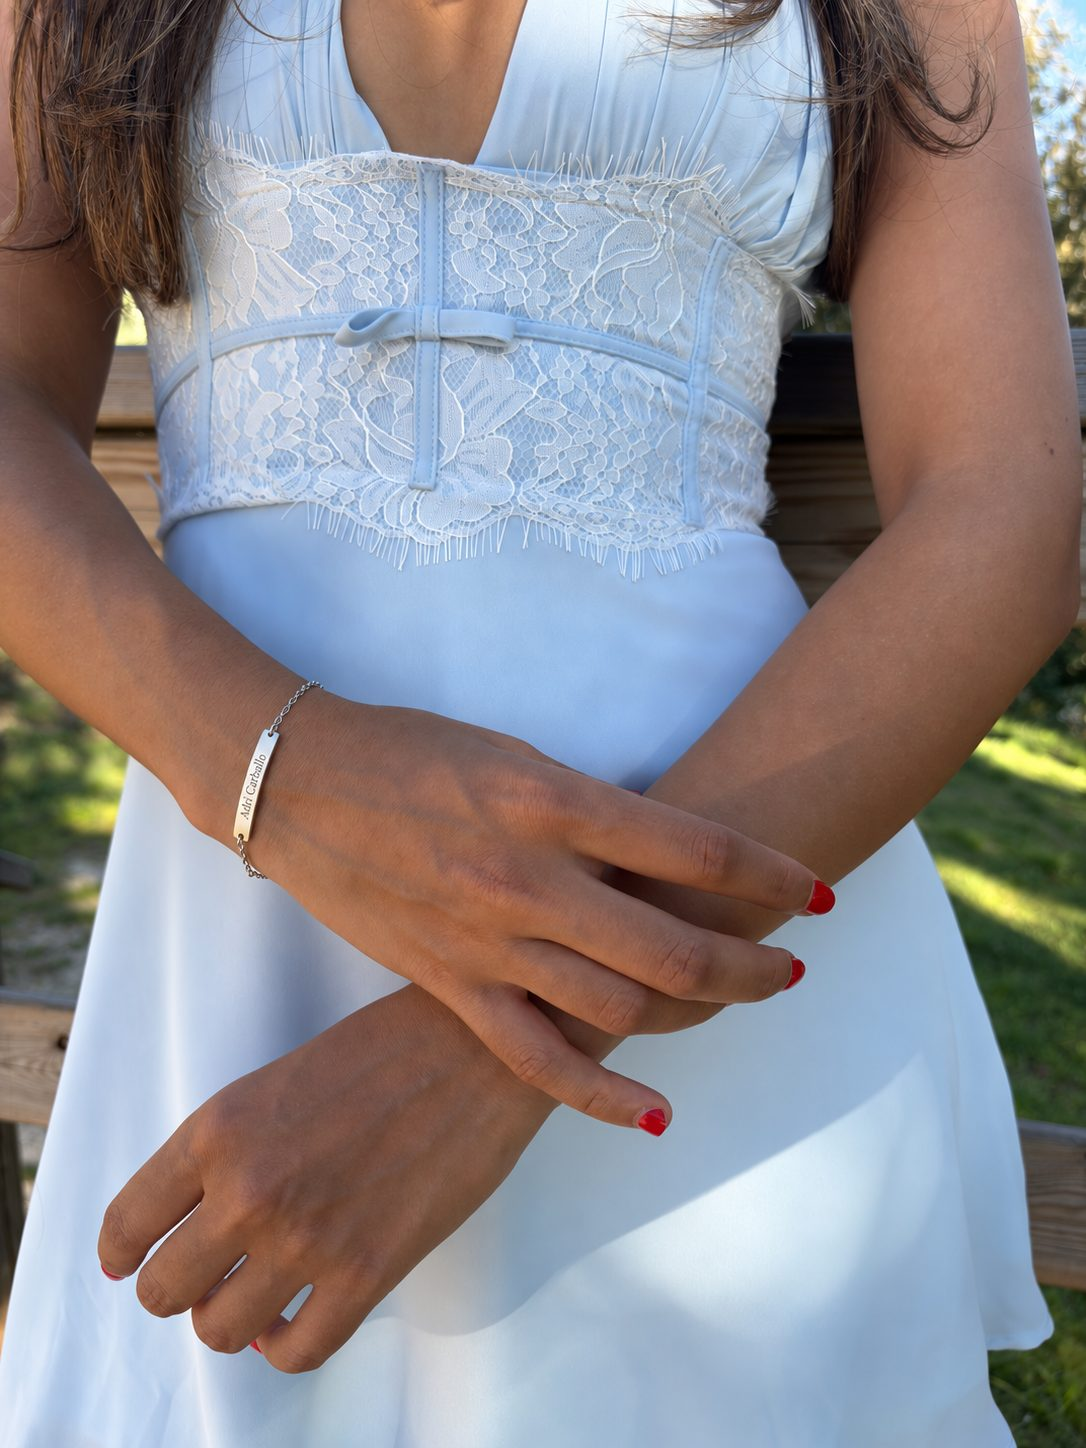
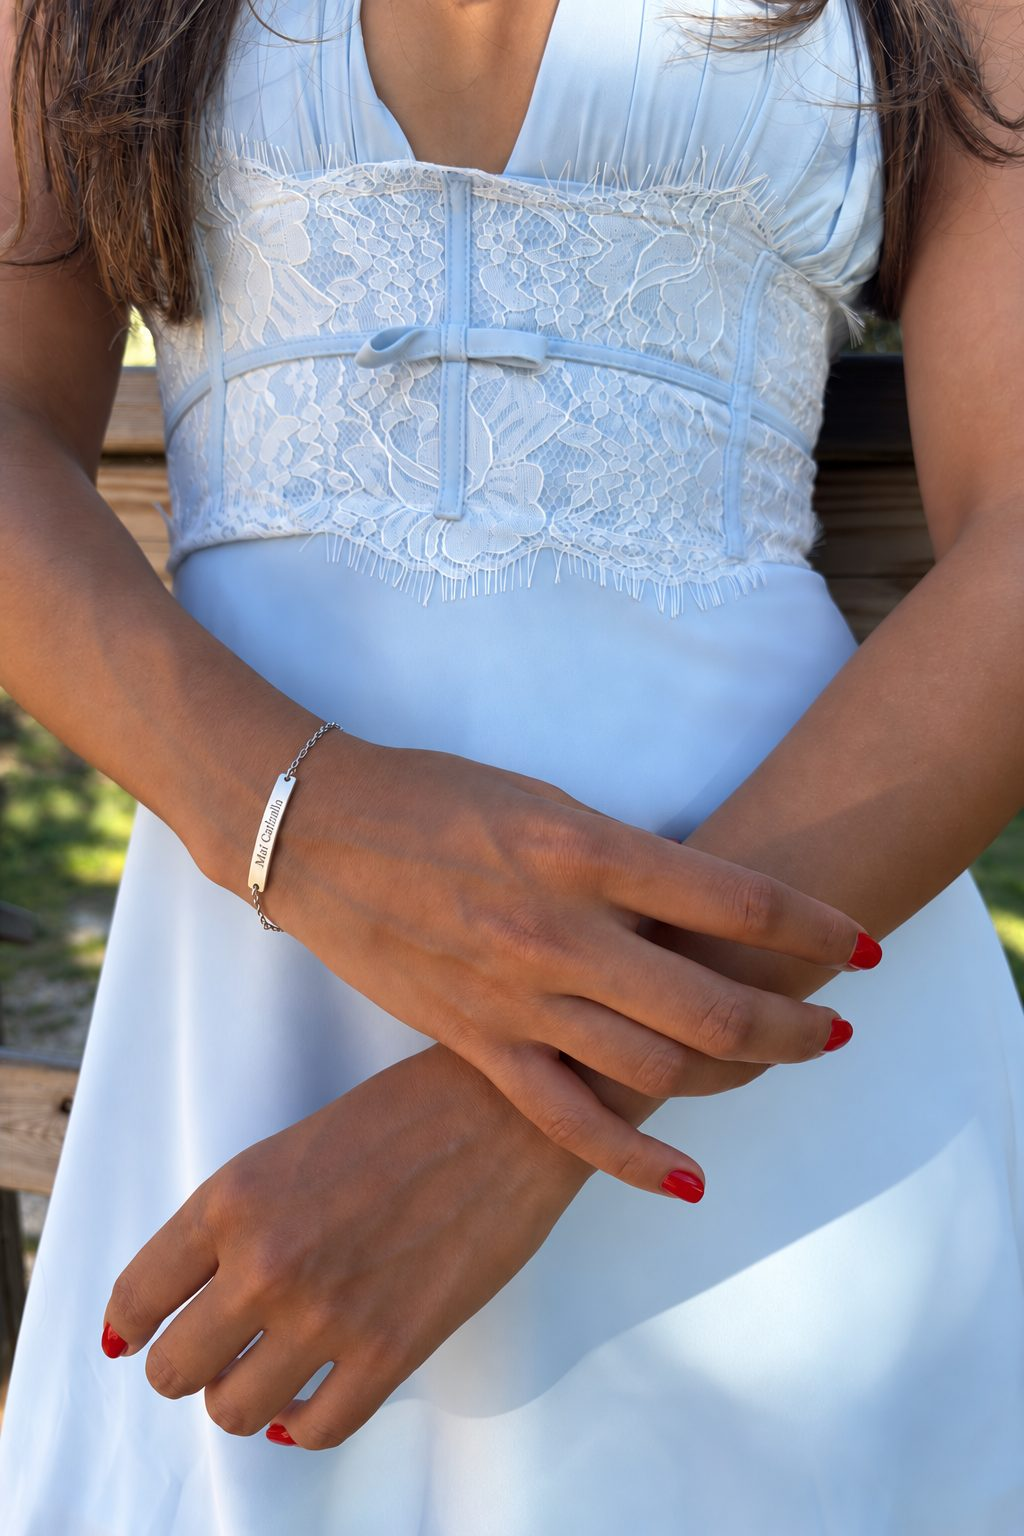
Fotos reales para Pulsera Dos Almas y Brazalete Eterno
Mismo esquema que Pulsera Mi Cielo: portada deslizable oro/plata
(foto 4 de cada una, que tambien cierra la galeria de dentro) y 1-2-3
dentro de la ficha, en orden. Ajustes de encuadre puntuales donde el
recorte centrado dejaba la pieza fuera (brazalete-oro-3, mi-cielo-oro-1
ya corregida antes). Pulsera Dos Almas se queda con 3 fotos en plata
(1a, 3a, 4a): la 2a de esa carpeta no es esta pulsera, es un brazalete
grabado, pendiente de que Adri suba la correcta.

diff --git a/deploy/productos.js b/deploy/productos.js
@@ -93,6 +93,16 @@ const PRODUCTOS = [
     forma: 'circulos',
     campos: [],
     destacado: false,
+    // FOTOS PROVISIONALES, mismo esquema que Pulsera Mi Cielo: la 4/4a de
+    // cada acabado es la portada y a la vez la última de la galería de
+    // dentro. OJO: "2a" (plata) no se usa: la foto de esa carpeta es un
+    // brazalete rígido grabado, no esta pulsera de los dos círculos —
+    // pendiente de que Adri suba la correcta.
+    fotoPortada: ['img/dos-almas-oro-4.jpg', 'img/dos-almas-plata-4.jpg'],
+    fotos: {
+      oro: ['img/dos-almas-oro-1.jpg', 'img/dos-almas-oro-2.jpg', 'img/dos-almas-oro-3.jpg', 'img/dos-almas-oro-4.jpg'],
+      plata: ['img/dos-almas-plata-1.jpg', 'img/dos-almas-plata-3.jpg', 'img/dos-almas-plata-4.jpg'],
+    },
   },
   {
     id: 'pulsera_nombre',
@@ -117,12 +127,18 @@ const PRODUCTOS = [
     destacado: true,
     // FOTOS PROVISIONALES, pendientes de edición final. La 4/4a de cada
     // acabado es la portada (tarjeta de la colección, deslizable entre
-    // oro y plata); la 1-2-3 de cada una va dentro de la ficha, en ese
-    // orden.
+    // oro y plata) y AL MISMO TIEMPO la última de la galería de dentro
+    // de la ficha: por eso se repite su ruta al final de "fotos".
     fotoPortada: ['img/mi-cielo-oro-4.jpg', 'img/mi-cielo-plata-4.jpg'],
     fotos: {
-      oro: ['img/mi-cielo-oro-1.jpg', 'img/mi-cielo-oro-2.jpg', 'img/mi-cielo-oro-3.jpg'],
-      plata: ['img/mi-cielo-plata-1.jpg', 'img/mi-cielo-plata-2.jpg', 'img/mi-cielo-plata-3.jpg'],
+      oro: [
+        // Foto apaisada con la pulsera pegada al borde izquierdo: el
+        // recorte centrado por defecto la dejaba casi fuera. "pos"
+        // desplaza el encuadre hacia la izquierda para que se vea entera.
+        { src: 'img/mi-cielo-oro-1.jpg', pos: '9% center' },
+        'img/mi-cielo-oro-2.jpg', 'img/mi-cielo-oro-3.jpg', 'img/mi-cielo-oro-4.jpg',
+      ],
+      plata: ['img/mi-cielo-plata-1.jpg', 'img/mi-cielo-plata-2.jpg', 'img/mi-cielo-plata-3.jpg', 'img/mi-cielo-plata-4.jpg'],
     },
   },
   {
@@ -146,6 +162,21 @@ const PRODUCTOS = [
     forma: 'brazalete',
     campos: ['grabado'],
     destacado: false,
+    // FOTOS PROVISIONALES, mismo esquema que Pulsera Mi Cielo: la 4/4a de
+    // cada acabado es la portada y a la vez la última de la galería de
+    // dentro.
+    fotoPortada: ['img/brazalete-oro-4.jpg', 'img/brazalete-plata-4.jpg'],
+    fotos: {
+      oro: [
+        'img/brazalete-oro-1.jpg', 'img/brazalete-oro-2.jpg',
+        // Foto de cuerpo entero con el brazalete abajo del todo: el
+        // recorte centrado por defecto lo dejaba casi fuera. "pos" baja
+        // el encuadre para que se vea completo.
+        { src: 'img/brazalete-oro-3.jpg', pos: 'center 78%' },
+        'img/brazalete-oro-4.jpg',
+      ],
+      plata: ['img/brazalete-plata-1.jpg', 'img/brazalete-plata-2.jpg', 'img/brazalete-plata-3.jpg', 'img/brazalete-plata-4.jpg'],
+    },
   },
   {
     id: 'collar_flor_natal',

diff --git a/productos.js b/productos.js
@@ -93,6 +93,16 @@ const PRODUCTOS = [
     forma: 'circulos',
     campos: [],
     destacado: false,
+    // FOTOS PROVISIONALES, mismo esquema que Pulsera Mi Cielo: la 4/4a de
+    // cada acabado es la portada y a la vez la última de la galería de
+    // dentro. OJO: "2a" (plata) no se usa: la foto de esa carpeta es un
+    // brazalete rígido grabado, no esta pulsera de los dos círculos —
+    // pendiente de que Adri suba la correcta.
+    fotoPortada: ['img/dos-almas-oro-4.jpg', 'img/dos-almas-plata-4.jpg'],
+    fotos: {
+      oro: ['img/dos-almas-oro-1.jpg', 'img/dos-almas-oro-2.jpg', 'img/dos-almas-oro-3.jpg', 'img/dos-almas-oro-4.jpg'],
+      plata: ['img/dos-almas-plata-1.jpg', 'img/dos-almas-plata-3.jpg', 'img/dos-almas-plata-4.jpg'],
+    },
   },
   {
     id: 'pulsera_nombre',
@@ -117,12 +127,18 @@ const PRODUCTOS = [
     destacado: true,
     // FOTOS PROVISIONALES, pendientes de edición final. La 4/4a de cada
     // acabado es la portada (tarjeta de la colección, deslizable entre
-    // oro y plata); la 1-2-3 de cada una va dentro de la ficha, en ese
-    // orden.
+    // oro y plata) y AL MISMO TIEMPO la última de la galería de dentro
+    // de la ficha: por eso se repite su ruta al final de "fotos".
     fotoPortada: ['img/mi-cielo-oro-4.jpg', 'img/mi-cielo-plata-4.jpg'],
     fotos: {
-      oro: ['img/mi-cielo-oro-1.jpg', 'img/mi-cielo-oro-2.jpg', 'img/mi-cielo-oro-3.jpg'],
-      plata: ['img/mi-cielo-plata-1.jpg', 'img/mi-cielo-plata-2.jpg', 'img/mi-cielo-plata-3.jpg'],
+      oro: [
+        // Foto apaisada con la pulsera pegada al borde izquierdo: el
+        // recorte centrado por defecto la dejaba casi fuera. "pos"
+        // desplaza el encuadre hacia la izquierda para que se vea entera.
+        { src: 'img/mi-cielo-oro-1.jpg', pos: '9% center' },
+        'img/mi-cielo-oro-2.jpg', 'img/mi-cielo-oro-3.jpg', 'img/mi-cielo-oro-4.jpg',
+      ],
+      plata: ['img/mi-cielo-plata-1.jpg', 'img/mi-cielo-plata-2.jpg', 'img/mi-cielo-plata-3.jpg', 'img/mi-cielo-plata-4.jpg'],
     },
   },
   {
@@ -146,6 +162,21 @@ const PRODUCTOS = [
     forma: 'brazalete',
     campos: ['grabado'],
     destacado: false,
+    // FOTOS PROVISIONALES, mismo esquema que Pulsera Mi Cielo: la 4/4a de
+    // cada acabado es la portada y a la vez la última de la galería de
+    // dentro.
+    fotoPortada: ['img/brazalete-oro-4.jpg', 'img/brazalete-plata-4.jpg'],
+    fotos: {
+      oro: [
+        'img/brazalete-oro-1.jpg', 'img/brazalete-oro-2.jpg',
+        // Foto de cuerpo entero con el brazalete abajo del todo: el
+        // recorte centrado por defecto lo dejaba casi fuera. "pos" baja
+        // el encuadre para que se vea completo.
+        { src: 'img/brazalete-oro-3.jpg', pos: 'center 78%' },
+        'img/brazalete-oro-4.jpg',
+      ],
+      plata: ['img/brazalete-plata-1.jpg', 'img/brazalete-plata-2.jpg', 'img/brazalete-plata-3.jpg', 'img/brazalete-plata-4.jpg'],
+    },
   },
   {
     id: 'collar_flor_natal',

diff --git a/deploy/script.js b/deploy/script.js
@@ -386,6 +386,15 @@ if (grid && typeof PRODUCTOS !== 'undefined') {
    Si un acabado todavía no tiene fotos propias, cae al otro antes que a
    dejar el hueco vacío: mejor enseñar la pieza en el otro color que un
    placeholder. */
+/* Cada foto es normalmente solo una ruta, pero puede venir como
+   {src, pos} cuando el encuadre por defecto (centrado) deja la pieza
+   fuera o justo en el borde: "pos" es el valor CSS de
+   background-position que corrige ese recorte para esa foto en
+   concreto (ver mi-cielo-oro-1 en productos.js). */
+function normFoto(f) {
+  return typeof f === 'string' ? { src: f, pos: null } : { src: f.src, pos: f.pos || null };
+}
+
 function fotosDe(prod, acabado) {
   const f = prod.fotos;
   if (f && !Array.isArray(f) && typeof f === 'object') {
@@ -420,12 +429,14 @@ function pintarGaleria(prod, acabado) {
     return;
   }
 
-  fotos.forEach((src, i) => {
+  fotos.forEach((f, i) => {
+    const { src, pos } = normFoto(f);
     const card = document.createElement('div');
     card.className = 'galeria-foto con-foto';
     // Va como variable CSS: el degradado de respaldo sigue debajo, así que
     // si el archivo no existe no queda un hueco roto.
     card.style.setProperty('--foto', `url('${src}')`);
+    if (pos) card.style.setProperty('--foto-pos', pos);
     const etiqueta = `${prod.nombre}, imagen ${i + 1} de ${fotos.length}`;
     // role="button" y no "img": ya no es solo ilustrativa, se puede
     // pulsar para ampliarla (abrirZoomFoto).
@@ -443,11 +454,13 @@ function pintarGaleria(prod, acabado) {
   // en escritorio se ven como miniaturas y se puede pulsar para saltar
   // directo a esa foto (en móvil siguen siendo solo puntos pequeños).
   if (puntos && fotos.length > 1) {
-    fotos.forEach((src, i) => {
+    fotos.forEach((f, i) => {
+      const { src, pos } = normFoto(f);
       const p = document.createElement('button');
       p.type = 'button';
       p.className = 'galeria-punto' + (i === 0 ? ' activo' : '');
       p.style.backgroundImage = `url('${src}')`;
+      if (pos) p.style.backgroundPosition = pos;
       p.setAttribute('aria-label', `Ver imagen ${i + 1} de ${fotos.length}`);
       p.addEventListener('click', () => {
         pista.children[i].scrollIntoView({ behavior: 'smooth', inline: 'center', block: 'nearest' });

diff --git a/script.js b/script.js
@@ -386,6 +386,15 @@ if (grid && typeof PRODUCTOS !== 'undefined') {
    Si un acabado todavía no tiene fotos propias, cae al otro antes que a
    dejar el hueco vacío: mejor enseñar la pieza en el otro color que un
    placeholder. */
+/* Cada foto es normalmente solo una ruta, pero puede venir como
+   {src, pos} cuando el encuadre por defecto (centrado) deja la pieza
+   fuera o justo en el borde: "pos" es el valor CSS de
+   background-position que corrige ese recorte para esa foto en
+   concreto (ver mi-cielo-oro-1 en productos.js). */
+function normFoto(f) {
+  return typeof f === 'string' ? { src: f, pos: null } : { src: f.src, pos: f.pos || null };
+}
+
 function fotosDe(prod, acabado) {
   const f = prod.fotos;
   if (f && !Array.isArray(f) && typeof f === 'object') {
@@ -420,12 +429,14 @@ function pintarGaleria(prod, acabado) {
     return;
   }
 
-  fotos.forEach((src, i) => {
+  fotos.forEach((f, i) => {
+    const { src, pos } = normFoto(f);
     const card = document.createElement('div');
     card.className = 'galeria-foto con-foto';
     // Va como variable CSS: el degradado de respaldo sigue debajo, así que
     // si el archivo no existe no queda un hueco roto.
     card.style.setProperty('--foto', `url('${src}')`);
+    if (pos) card.style.setProperty('--foto-pos', pos);
     const etiqueta = `${prod.nombre}, imagen ${i + 1} de ${fotos.length}`;
     // role="button" y no "img": ya no es solo ilustrativa, se puede
     // pulsar para ampliarla (abrirZoomFoto).
@@ -443,11 +454,13 @@ function pintarGaleria(prod, acabado) {
   // en escritorio se ven como miniaturas y se puede pulsar para saltar
   // directo a esa foto (en móvil siguen siendo solo puntos pequeños).
   if (puntos && fotos.length > 1) {
-    fotos.forEach((src, i) => {
+    fotos.forEach((f, i) => {
+      const { src, pos } = normFoto(f);
       const p = document.createElement('button');
       p.type = 'button';
       p.className = 'galeria-punto' + (i === 0 ? ' activo' : '');
       p.style.backgroundImage = `url('${src}')`;
+      if (pos) p.style.backgroundPosition = pos;
       p.setAttribute('aria-label', `Ver imagen ${i + 1} de ${fotos.length}`);
       p.addEventListener('click', () => {
         pista.children[i].scrollIntoView({ behavior: 'smooth', inline: 'center', block: 'nearest' });

diff --git a/deploy/style.css b/deploy/style.css
@@ -1648,16 +1648,17 @@ body[data-page="historia"] .historia::before{content:none;}
   scroll-snap-type:x mandatory;
   -webkit-overflow-scrolling:touch;
   /* El padding deja hueco para que la PRIMERA y la ÚLTIMA foto puedan
-     llegar al centro. Va atado al ancho fijo de la tarjeta, no en %:
-     un flex-basis en % se calcula sobre la caja YA sin padding, así que
-     mezclar los dos porcentajes los multiplica y la foto sale enana. */
-  padding:0 calc(50% - 145px) 4px;
+     llegar al centro. Va atado al ancho de la tarjeta (mismo cálculo que
+     su flex-basis, mitad y mitad), no en %: un flex-basis en % se
+     calcula sobre la caja YA sin padding, así que mezclar los dos
+     porcentajes los multiplica y la foto sale enana. */
+  padding:0 calc(50% - min(86vw, 400px) / 2) 4px;
   scrollbar-width:none;          /* la barra sobra: ya están los puntos */
   -ms-overflow-style:none;
 }
 .galeria-pista::-webkit-scrollbar{display:none;}
 .galeria-foto{
-  position:relative; flex:0 0 290px; scroll-snap-align:center;
+  position:relative; flex:0 0 min(86vw, 400px); scroll-snap-align:center;
   aspect-ratio:1; border-radius:2px;
   display:flex; align-items:center; justify-content:center;
   /* Sin foto: el degradado marino de siempre, nunca un hueco roto */
@@ -1673,7 +1674,10 @@ body[data-page="historia"] .historia::before{content:none;}
 .galeria-foto.con-foto{
   background-image:var(--foto);
   background-size:cover;
-  background-position:center;
+  /* Centrado salvo que la foto traiga su propio encuadre en --foto-pos
+     (ver normFoto en script.js), para las que el recorte centrado deja
+     la pieza fuera o pegada al borde. */
+  background-position:var(--foto-pos, center);
   background-repeat:no-repeat;
   cursor:zoom-in;
 }

diff --git a/style.css b/style.css
@@ -1648,16 +1648,17 @@ body[data-page="historia"] .historia::before{content:none;}
   scroll-snap-type:x mandatory;
   -webkit-overflow-scrolling:touch;
   /* El padding deja hueco para que la PRIMERA y la ÚLTIMA foto puedan
-     llegar al centro. Va atado al ancho fijo de la tarjeta, no en %:
-     un flex-basis en % se calcula sobre la caja YA sin padding, así que
-     mezclar los dos porcentajes los multiplica y la foto sale enana. */
-  padding:0 calc(50% - 145px) 4px;
+     llegar al centro. Va atado al ancho de la tarjeta (mismo cálculo que
+     su flex-basis, mitad y mitad), no en %: un flex-basis en % se
+     calcula sobre la caja YA sin padding, así que mezclar los dos
+     porcentajes los multiplica y la foto sale enana. */
+  padding:0 calc(50% - min(86vw, 400px) / 2) 4px;
   scrollbar-width:none;          /* la barra sobra: ya están los puntos */
   -ms-overflow-style:none;
 }
 .galeria-pista::-webkit-scrollbar{display:none;}
 .galeria-foto{
-  position:relative; flex:0 0 290px; scroll-snap-align:center;
+  position:relative; flex:0 0 min(86vw, 400px); scroll-snap-align:center;
   aspect-ratio:1; border-radius:2px;
   display:flex; align-items:center; justify-content:center;
   /* Sin foto: el degradado marino de siempre, nunca un hueco roto */
@@ -1673,7 +1674,10 @@ body[data-page="historia"] .historia::before{content:none;}
 .galeria-foto.con-foto{
   background-image:var(--foto);
   background-size:cover;
-  background-position:center;
+  /* Centrado salvo que la foto traiga su propio encuadre en --foto-pos
+     (ver normFoto en script.js), para las que el recorte centrado deja
+     la pieza fuera o pegada al borde. */
+  background-position:var(--foto-pos, center);
   background-repeat:no-repeat;
   cursor:zoom-in;
 }
